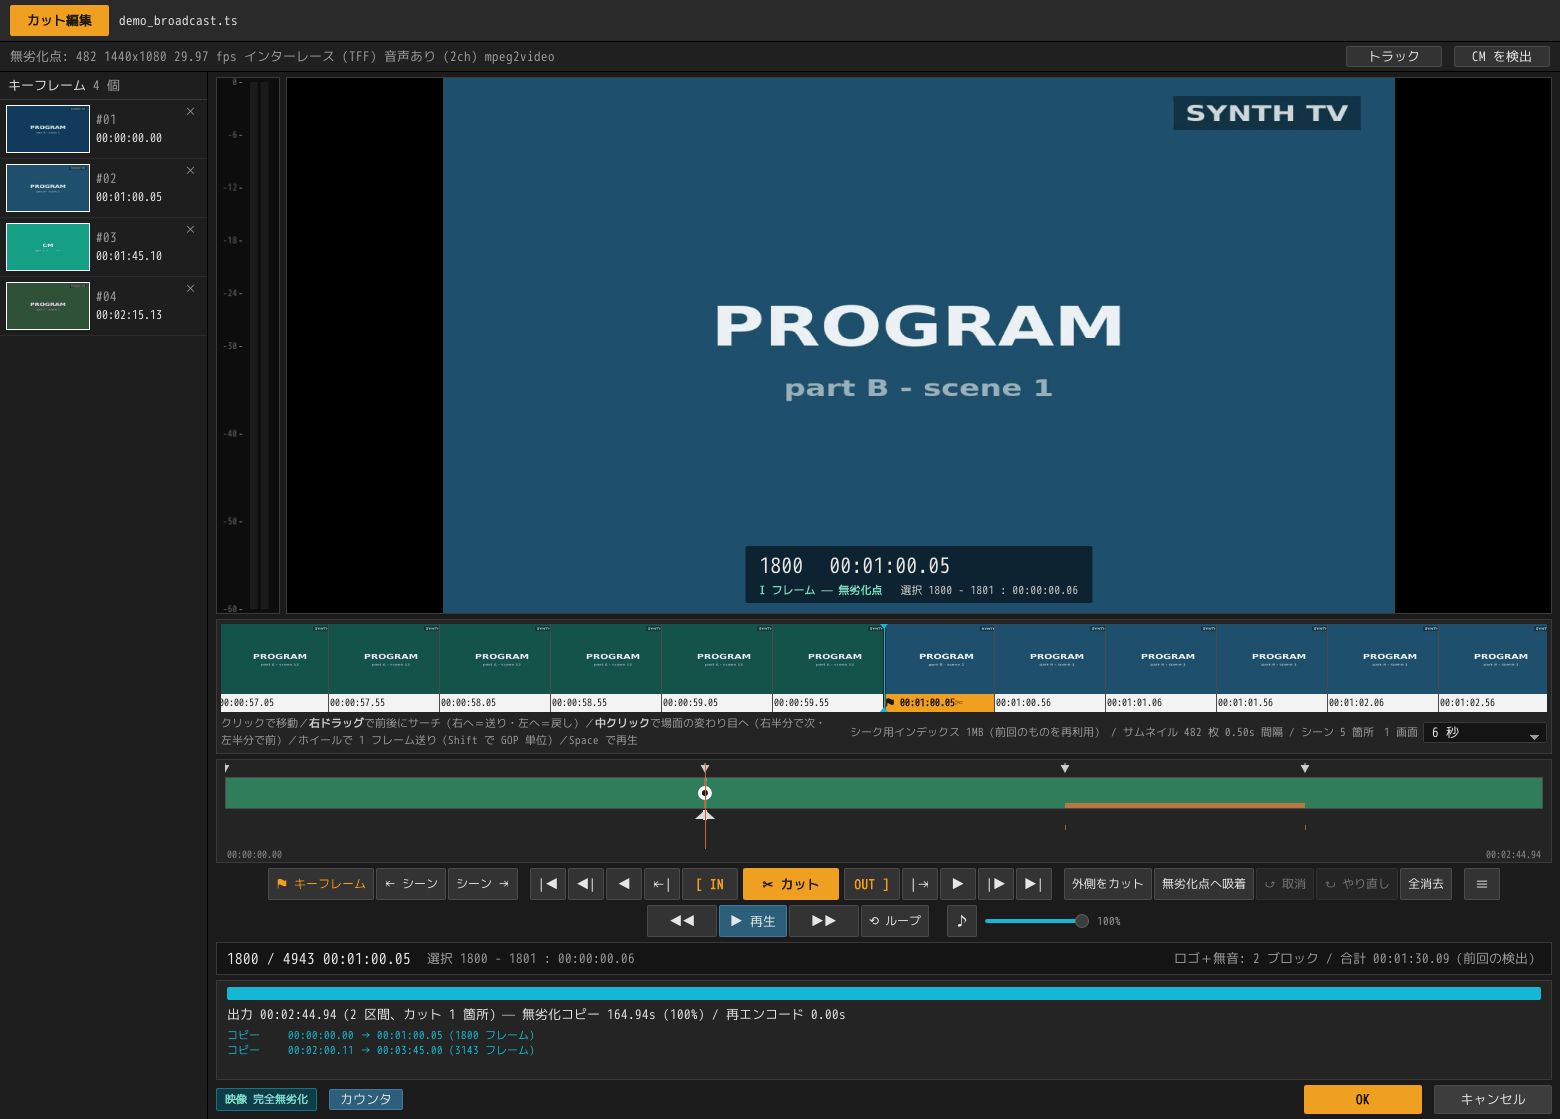
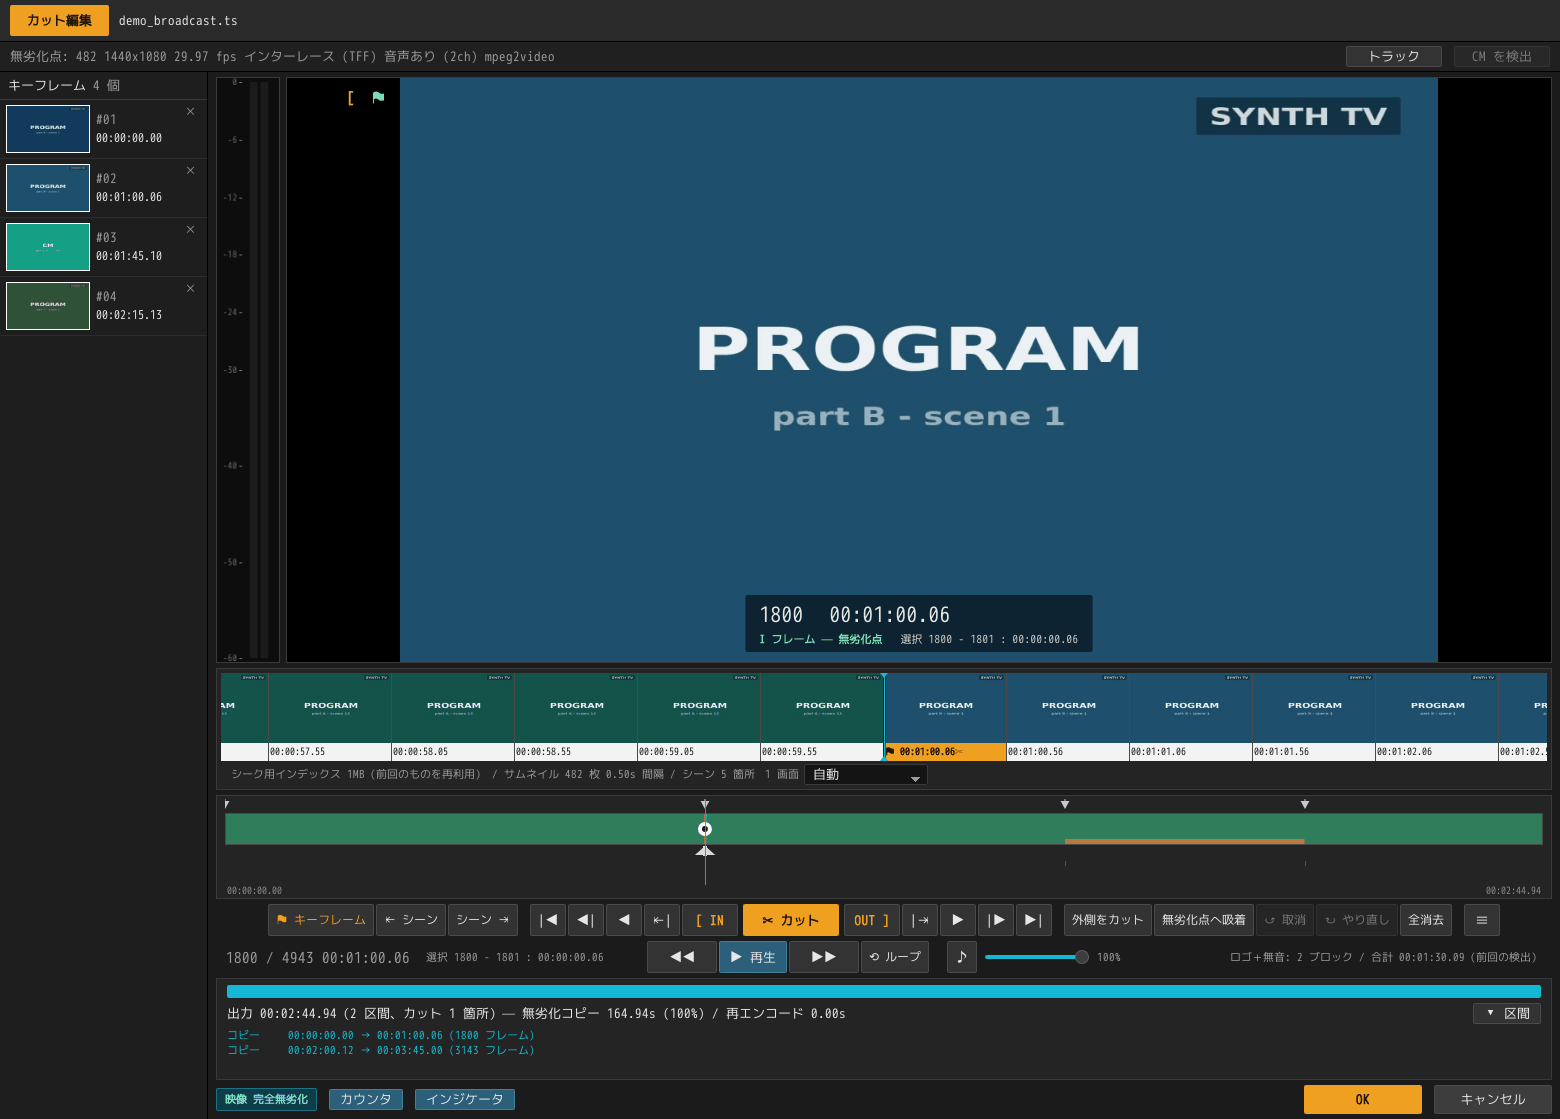
Give the cut editor's picture the lines that were under it
On a 1080p screen the preview had 44% of the window's height; it now has
about 53%, 455 pixels becoming 553.

- The counter and the selection move onto the playback row's left, and the
  detection's note onto its right: that row of their own is gone.
- The plan's segments fold under its one-line summary, folded out of the
  box; `▸ Segments` opens them and the answer is kept (`planOpen`).
- How the strip is worked goes into its tooltip, one line per action,
  instead of two lines of text under it.

The guide, the README and the sixteen editor screenshots are taken again
to match.

diff --git a/gui/src/editor.html b/gui/src/editor.html
@@ -98,12 +98,14 @@
         </div>
 
         <div class="strip-wrap">
-          <div id="strip" class="strip">
+          <!-- How the strip is worked, in its tooltip rather than on a line
+               under it: two lines of help text were two lines taken off the
+               picture on a 1080p screen, every time, for something read once. -->
+          <div id="strip" class="strip" data-i18n-title="editor.stripHint">
             <div id="reel" class="reel"></div>
             <div id="playline" class="playline" hidden></div>
           </div>
           <div class="strip-foot">
-            <span class="dim" data-i18n-html="editor.stripHint"></span>
             <span class="spacer"></span>
             <span id="warm" class="warm"></span>
             <label class="opt"><span data-i18n="editor.stripShow">1 画面</span>
@@ -313,6 +315,22 @@
              exactly what they would do here, and a window with two of the
              same button is a window that has to say why. -->
         <div class="player">
+          <!-- Where the playhead is and what is chosen, on the playback row's
+               left, and the detection's note on its right: on a row of their
+               own they were a line taken off the picture, and this row had
+               room either side of its buttons.
+
+               The counter is also where a frame number is typed in: a press
+               on it, J or Ctrl+J (the reference tools' key) swaps it for the
+               box beside it, filled with where the playhead is. See
+               `openJump`. -->
+          <div class="readout">
+            <span class="counter" id="counter" data-i18n-title="editor.jump.title">— / —</span>
+            <input id="counter-jump" class="counter-jump" type="text" hidden
+                   inputmode="numeric" autocomplete="off" spellcheck="false"
+                   data-i18n-title="editor.jump.title" />
+            <span class="dim" id="selection" data-i18n="editor.selectionNone">選択 —</span>
+          </div>
           <div class="tgroup">
             <button id="rewind" class="seek" data-i18n-title="t.rewind">◀◀</button>
             <!-- The play button's label swaps to ■ 停止 while it is playing,
@@ -343,26 +361,19 @@
                    value="100" data-i18n-title="t.volume" data-i18n-aria="t.volume.aria" />
             <span id="vol-num" class="dim vnum">100%</span>
           </div>
-        </div>
-
-        <div class="statusbar">
-          <!-- The counter is also where a frame number is typed in: a press
-               on it, J or Ctrl+J (the reference tools' key) swaps it for the
-               box beside it, filled with where the playhead is. See
-               `openJump`. -->
-          <span class="counter" id="counter" data-i18n-title="editor.jump.title">— / —</span>
-          <input id="counter-jump" class="counter-jump" type="text" hidden
-                 inputmode="numeric" autocomplete="off" spellcheck="false"
-                 data-i18n-title="editor.jump.title" />
-          <span class="dim" id="selection" data-i18n="editor.selectionNone">選択 —</span>
-          <span class="spacer"></span>
-          <span class="dim" id="cm-note"></span>
+          <div class="readout readout-r"><span class="dim" id="cm-note"></span></div>
         </div>
 
         <footer class="output" id="plan-panel">
           <div class="panel">
             <div class="bar"><span id="copied-bar"></span></div>
-            <div class="plan-text" id="plan-text" data-i18n="plan.openFile">ファイルを開いてください</div>
+            <!-- The summary, and the button that unfolds the segments under
+                 it. Folded out of the box; see `planOpen` in prefs.js. -->
+            <div class="plan-head">
+              <div class="plan-text" id="plan-text" data-i18n="plan.openFile">ファイルを開いてください</div>
+              <button id="plan-fold" class="mini" type="button" aria-expanded="false"
+                      data-i18n-title="plan.fold.title"></button>
+            </div>
             <!-- Wrapped, so the shadow that says "there is more below" can
                  be drawn over the list without scrolling away with it. -->
             <div class="segbox"><ul id="segments"></ul></div>

diff --git a/gui/src/styles.css b/gui/src/styles.css
@@ -898,21 +898,25 @@ body.crosswin { padding: 0; }
    dragged past a digit. */
 .vnum { font-size: 11px; min-width: 4ch; text-align: right; font-variant-numeric: tabular-nums; }
 
-.statusbar {
-  display: flex; align-items: center; gap: 16px;
-  background: var(--sunken); border: 1px solid var(--line); padding: 4px 10px;
-  font-variant-numeric: tabular-nums;
+/* The readouts either side of the playback buttons: where the playhead is
+   and what is chosen on the left, the detection's note on the right. They
+   used to be a row of their own under this one, which was a line taken off
+   the picture. The two sides share what the buttons leave equally, so the
+   buttons stay in the middle of the window; where the row is too narrow for
+   all of it, the readouts go onto a line of their own rather than fold.
+
+   None of them may fold -- the frame number broke across its slash -- and
+   the detection note is the one that gives way: the number and the
+   selection are what the cut is being made against, while the note is a
+   summary already said in the row it came from, and it keeps the whole of
+   itself in its tooltip. */
+.player > .readout {
+  flex: 1 1 0; display: flex; align-items: center; gap: 16px;
+  min-width: max-content; padding: 0 10px; font-variant-numeric: tabular-nums;
 }
-/* Three readouts on one line, and at the window's narrowest they want more
-   room than the line has. Left alone, every one of them folds in two -- the
-   frame number breaks across the slash -- and the bar grows a second line
-   anyway. So none of them may fold, and the detection note is the one that
-   gives way: the number and the selection are what the cut is being made
-   against, while the note is a summary that was already said in the row it
-   came from, and it keeps the whole of itself in its tooltip. */
-.statusbar > * { flex: none; white-space: nowrap; }
-.statusbar .spacer { flex: 1; }
-.statusbar #cm-note { flex: 0 1 auto; min-width: 0; overflow: hidden; text-overflow: ellipsis; }
+.player > .readout > * { flex: none; white-space: nowrap; }
+.player > .readout-r { justify-content: flex-end; min-width: 0; }
+.player > .readout-r #cm-note { flex: 0 1 auto; min-width: 0; overflow: hidden; text-overflow: ellipsis; }
 .counter { font-size: 15px; }
 /* A press on the counter types a frame number in; see `openJump`. The box
    takes the counter's place and its size, so the row does not move. */
@@ -939,7 +943,12 @@ body.crosswin { padding: 0; }
    ground goes neutral until there is a plan to show. */
 .bar.unknown { background: var(--line); }
 .bar span { display: block; height: 100%; width: 0; background: var(--copy); }
-.plan-text { margin-top: 5px; font-variant-numeric: tabular-nums; }
+.plan-head { display: flex; align-items: center; gap: 10px; margin-top: 5px; }
+.plan-text { flex: 1 1 auto; min-width: 0; font-variant-numeric: tabular-nums; }
+.plan-head .mini { flex: none; }
+/* Folded, which is how it starts: the summary above says what the cut
+   costs, and the segments are there for the one who wants them. */
+.segbox[hidden] { display: none; }
 /* Everything else in this window is the editor's own arithmetic and lands
    the instant a cut is made; what the cut *costs* has to be asked of the
    engine, and on a long recording that answer takes a few seconds. The panel

diff --git a/gui/src/i18n.js b/gui/src/i18n.js
@@ -991,8 +991,15 @@ const CATALOG = {
     "editor.frameKindNear": "{kind} フレーム — 近くのフレーム（解析中）",
     "editor.previewFailed": "プレビュー失敗: {e}",
     "editor.stripHint":
-      "クリックで移動／<b>右ドラッグ</b>で前後にサーチ（右へ＝送り・左へ＝戻し）／<b>中クリック</b>で場面の変わり目へ（右半分で次・左半分で前）／ホイールで 1 フレーム送り（Shift で GOP 単位）／Space で再生",
+      "クリック：そのフレームへ移動\n" +
+      "右ドラッグ：前後にサーチ（右へ動かすと送り、左へ動かすと戻し）\n" +
+      "中クリック：場面の変わり目へ（右半分で次、左半分で前）\n" +
+      "ホイール：1 フレームずつ送る（Shift を押しながらで GOP 単位）\n" +
+      "Space：再生",
     "editor.stripShow": "1 画面",
+    "plan.fold.open": "▾ 区間",
+    "plan.fold.closed": "▸ 区間",
+    "plan.fold.title": "コピーする区間と再エンコードする区間の一覧を表示する／隠す",
     "strip.auto": "自動",
     "strip.win3": "3 秒",
     "strip.win6": "6 秒",
@@ -2091,8 +2098,15 @@ const CATALOG = {
     "editor.frameKindNear": "{kind} frame — nearest picture, still reading",
     "editor.previewFailed": "Preview failed: {e}",
     "editor.stripHint":
-      "Click to move  /  <b>right-drag</b> to search back and forth (right = forwards, left = back)  /  <b>middle-click</b> for a scene change (right half forwards, left half back)  /  wheel steps a frame (Shift for a GOP)  /  Space plays",
+      "Click: go to that frame\n" +
+      "Right-drag: search back and forth (right = forwards, left = back)\n" +
+      "Middle-click: a scene change (right half forwards, left half back)\n" +
+      "Wheel: a frame at a time (a GOP with Shift)\n" +
+      "Space: play",
     "editor.stripShow": "Window",
+    "plan.fold.open": "▾ Segments",
+    "plan.fold.closed": "▸ Segments",
+    "plan.fold.title": "Show or hide the list of copied and re-encoded segments",
     "strip.auto": "Auto",
     "strip.win3": "3 s",
     "strip.win6": "6 s",

diff --git a/gui/src/main.js b/gui/src/main.js
@@ -2038,6 +2038,36 @@ if (subsPicker) {
 
 const seekOut = (o) => showFrame(outToSrc(clamp(o, 0, outDur)));
 
+// --- the plan's segments, folded or open --------------------------------
+//
+// The summary line says what the cut costs; the segments under it are for
+// whoever wants the detail, and three lines of them were three lines taken
+// off the picture on a 1080p screen. Folded out of the box, and the answer
+// is kept: somebody who opens them wants them open on the next clip too.
+
+function showPlanOpen(open) {
+  const box = el("segments").parentElement;
+  const button = el("plan-fold");
+  box.hidden = !open;
+  button.textContent = tr(open ? "plan.fold.open" : "plan.fold.closed");
+  button.setAttribute("aria-expanded", open ? "true" : "false");
+}
+
+const planFold = el("plan-fold");
+if (planFold) {
+  showPlanOpen(!!prefs.get("planOpen"));
+  planFold.addEventListener("click", () => {
+    const open = el("segments").parentElement.hidden;
+    prefs.set("planOpen", open);
+    showPlanOpen(open);
+    // The shadow that says there is more is measured against a box that
+    // was not there while it was folded.
+    const list = el("segments");
+    list.parentElement.classList.toggle("more", list.scrollHeight > list.clientHeight + 1);
+  });
+  onLangChange(() => showPlanOpen(!el("segments").parentElement.hidden));
+}
+
 // --- going to a frame by number ---------------------------------------------
 //
 // The counter under the buttons turns into a box: a press on it, J, or Ctrl+J,
@@ -5689,7 +5719,7 @@ function keptAudio() {
 
 /// The note under the timeline. It is the one thing in that bar allowed to be
 /// cut short when the window is narrow, so it carries the whole of itself in
-/// its tooltip -- see `.statusbar #cm-note`.
+/// its tooltip -- see `.readout-r #cm-note`.
 function showCmNote(text) {
   const e = el("cm-note");
   e.textContent = text;

diff --git a/gui/src/prefs.js b/gui/src/prefs.js
@@ -147,6 +147,11 @@ const DEFAULTS = {
   /// are up in the corners out of its way. The インジケータ button beside the counter's
   /// in the editor is the same answer.
   pictureMarks: true,
+  /// Whether the cut editor shows the plan's segments line by line under its
+  /// one-line summary. Folded: the summary says what a cut costs, and the
+  /// three lines of the list were three lines taken off the picture on a
+  /// 1080p screen. Opened and closed from the plan itself.
+  planOpen: false,
   /// How far 拡大表示 magnifies, in screen pixels per source pixel.
   ///
   /// Not on the 環境設定 screen: it is the one question that window exists to

diff --git a/docs/user-guide/gui.md b/docs/user-guide/gui.md
@@ -455,11 +455,11 @@ frames, and `Snap to lossless` can take those to zero once it lights up.
 | Left column | The **keyframes** — your marks, each with a thumbnail. Click one to jump there; the column stays where it is scrolled to. A mark a detection put down carries `Black`, `White` or `Quiet` under its time |
 | The large picture | The preview. At its foot, in the middle: frame number, timecode, what kind of frame it is, and the current selection. **Counter**, on the bottom line, turns them off. In its top corners, indicators for the frame on screen (below), which **Indicators** turns off |
 | Beside it, on the left | The **audio level meter**: what is being heard while something plays, and the sound under the playhead while nothing does. **Preferences → Windows** turns it off |
-| The band under it | The **filmstrip**: the frames around you, laid out as pictures. The `Window` menu on the right sets how much of the recording the band shows. `Auto`, the default, sizes it from the recording's keyframe spacing so that one GOP is about one picture wide (between 2 and 60 s); a cell is as wide as the stretch it covers. The line down the middle is where you are — except at `Frame by frame`, where a cell is one frame and the frame on screen is boxed in blue instead |
+| The band under it | The **filmstrip**: the frames around you, laid out as pictures. The `Window` menu on the right sets how much of the recording the band shows. `Auto`, the default, sizes it from the recording's keyframe spacing so that one GOP is about one picture wide (between 2 and 60 s); a cell is as wide as the stretch it covers. The line down the middle is where you are — except at `Frame by frame`, where a cell is one frame and the frame on screen is boxed in blue instead. Hover over the strip for how it is worked |
 | The scrubber | **Green is the output itself.** `▼` are keyframes, a dull red line inside the green is a join left by a cut, the fine ticks below are scene changes, and the two rows under those are the blank and the silent stretches. **The playhead is the `◎` and a bright red line running the whole height of the track** — the `◎` sits inside the green and the line is what lines it up against everything drawn above and below it |
 | The button row | **Cut** in the middle, `[ IN` to its left and `OUT ]` to its right, and outwards from there: go to, one frame, lossless point, start and end |
-| The line under the playback buttons | The frame you are on, how many there are, the time, and the selection. Click the frame number on this line (not the one over the picture), or press `J` (`Ctrl+J`), to type a frame number or a time (`00:01:23.45`) and go there with `Enter`. `Esc` closes the box without going anywhere |
-| The band and lines below | **The export plan**: what will be copied and what will be rebuilt |
+| The playback row | Rewind, play, fast forward, loop and the volume. To their left, the frame you are on, how many there are, the time, and the selection; at the far right, what commercial detection found. Click the frame number on this row (not the one over the picture), or press `J` (`Ctrl+J`), to type a frame number or a time (`00:01:23.45`) and go there with `Enter`. `Esc` closes the box without going anywhere |
+| The band and lines below | **The export plan**: what will be copied and what will be rebuilt. `▸ Segments` at its right unfolds it segment by segment |
 | The bottom line | On the left, what the cut costs, and beside it **Counter**, **Indicators** and **Subtitles** — what the preview carries. **OK** and **Cancel** on the right |
 
 The indicators in the picture's top corners are there only on a frame they apply to:
@@ -549,7 +549,7 @@ hole, and the frame counter counts the length that will actually be written.
 ### Listening to a seam over and over
 
 The playback row sits under the cutting one: rewind, play, fast forward and
-**Loop**, with the **volume** to the right of them.
+**Loop** in the middle, with the **volume** to the right of them.
 
 With **Loop** down, playback that reaches the end of the selection goes back to
 where it started and plays again. What repeats is the **selection**: it starts at
@@ -819,7 +819,7 @@ frames you want to *keep* and it takes out what lies between them.
   at a time as you close in. Only when the two cross does the one you just
   placed win, and the other retreats to the end of the timeline.
 - **IN and OUT on the same frame select that one frame.**
-- The selection is shown under the preview and on the status line, as
+- The selection is shown under the preview and on the playback row, as
   `Selection 1800 - 3599 : 00:01:00.06`.
 
 ### Making the cut
@@ -838,6 +838,9 @@ copy 00:02:00.11 → 00:03:45.00 (3143 frames)
 **If the badge at the bottom left reads `Video completely lossless`, not one
 frame of this output will be rebuilt.** Cut the second commercial block the same
 way and it becomes `3 ranges, 2 cuts`.
+
+The breakdown, segment by segment, starts folded: `▸ Segments` at the right of
+the plan opens it, and it stays open for the next clip until it is folded again.
 
 **Only three lines of the breakdown are visible at once.** More cuts mean more
 lines, and the rest are read by scrolling. When there is more below, a slim bar

diff --git a/README.ja.md b/README.ja.md
@@ -407,10 +407,10 @@ VC-1 だけは事情が違います。2010 年頃までにプレスされた Blu
 | VC-1 の Blu-ray（1920x1080i アニメ）、キーフレームの間から間まで 10 秒 | 308/308 フレーム、映像の 90% がバイト一致、残りは 48 dB で書き直し |
 | VC-1 の Blu-ray（1920x1080p 実写・強いグレイン）、同じく 10 秒 | 246/246 フレーム、90% がバイト一致、残りは 45 dB でグレインも残存 |
 
-**GUI では書き出す前に結果が分かります。** タイムライン下のステータス行には、
-エンジンが実際に実行する計画がそのまま表示されます。どの区間をコピーし、どこを
-何フレーム作り直すかが分かります。「映像 完全無劣化」と出ていれば、1 フレームも
-再エンコードしません。
+**GUI では書き出す前に結果が分かります。** タイムラインの下にある書き出しの計画には、
+エンジンが実際に実行する計画がそのまま表示されます。どれだけをコピーし、何フレームを
+作り直すかが分かり、区間ごとの内訳も開いて確かめられます。「映像 完全無劣化」と
+出ていれば、1 フレームも再エンコードしません。
 
 **四捨五入で「100%」にすることはありません。** 40000 フレーム中 2 フレームを
 作り直した場合、四捨五入すれば 100.0% になります。しかしスマートレンダラーが

diff --git a/README.md b/README.md
@@ -433,9 +433,9 @@ broadcast recordings:
 | A Blu-ray in VC-1 (1920x1080i animation), 10s between key frames | 308/308 frames, 90% of the video byte-identical, the rest rewritten at 48 dB |
 | A Blu-ray in VC-1 (1920x1080p film, heavy grain), same 10s | 246/246 frames, 90% byte-identical, the rest at 45 dB with the grain intact |
 
-**The GUI shows you the result before you commit to it.** The status line under
-the timeline is the plan the engine will actually carry out: which ranges are
-copied, which are rebuilt, and how many frames that is. If it says "Video
+**The GUI shows you the result before you commit to it.** The plan under the
+timeline is the one the engine will actually carry out: how much is copied, how
+many frames are rebuilt, and, unfolded, which ranges each of those is. If it says "Video
 completely lossless", not one frame will be re-encoded.
 
 **"100%" is never rounded up.** Two rebuilt frames out of 40000 rounds to 100.0%
